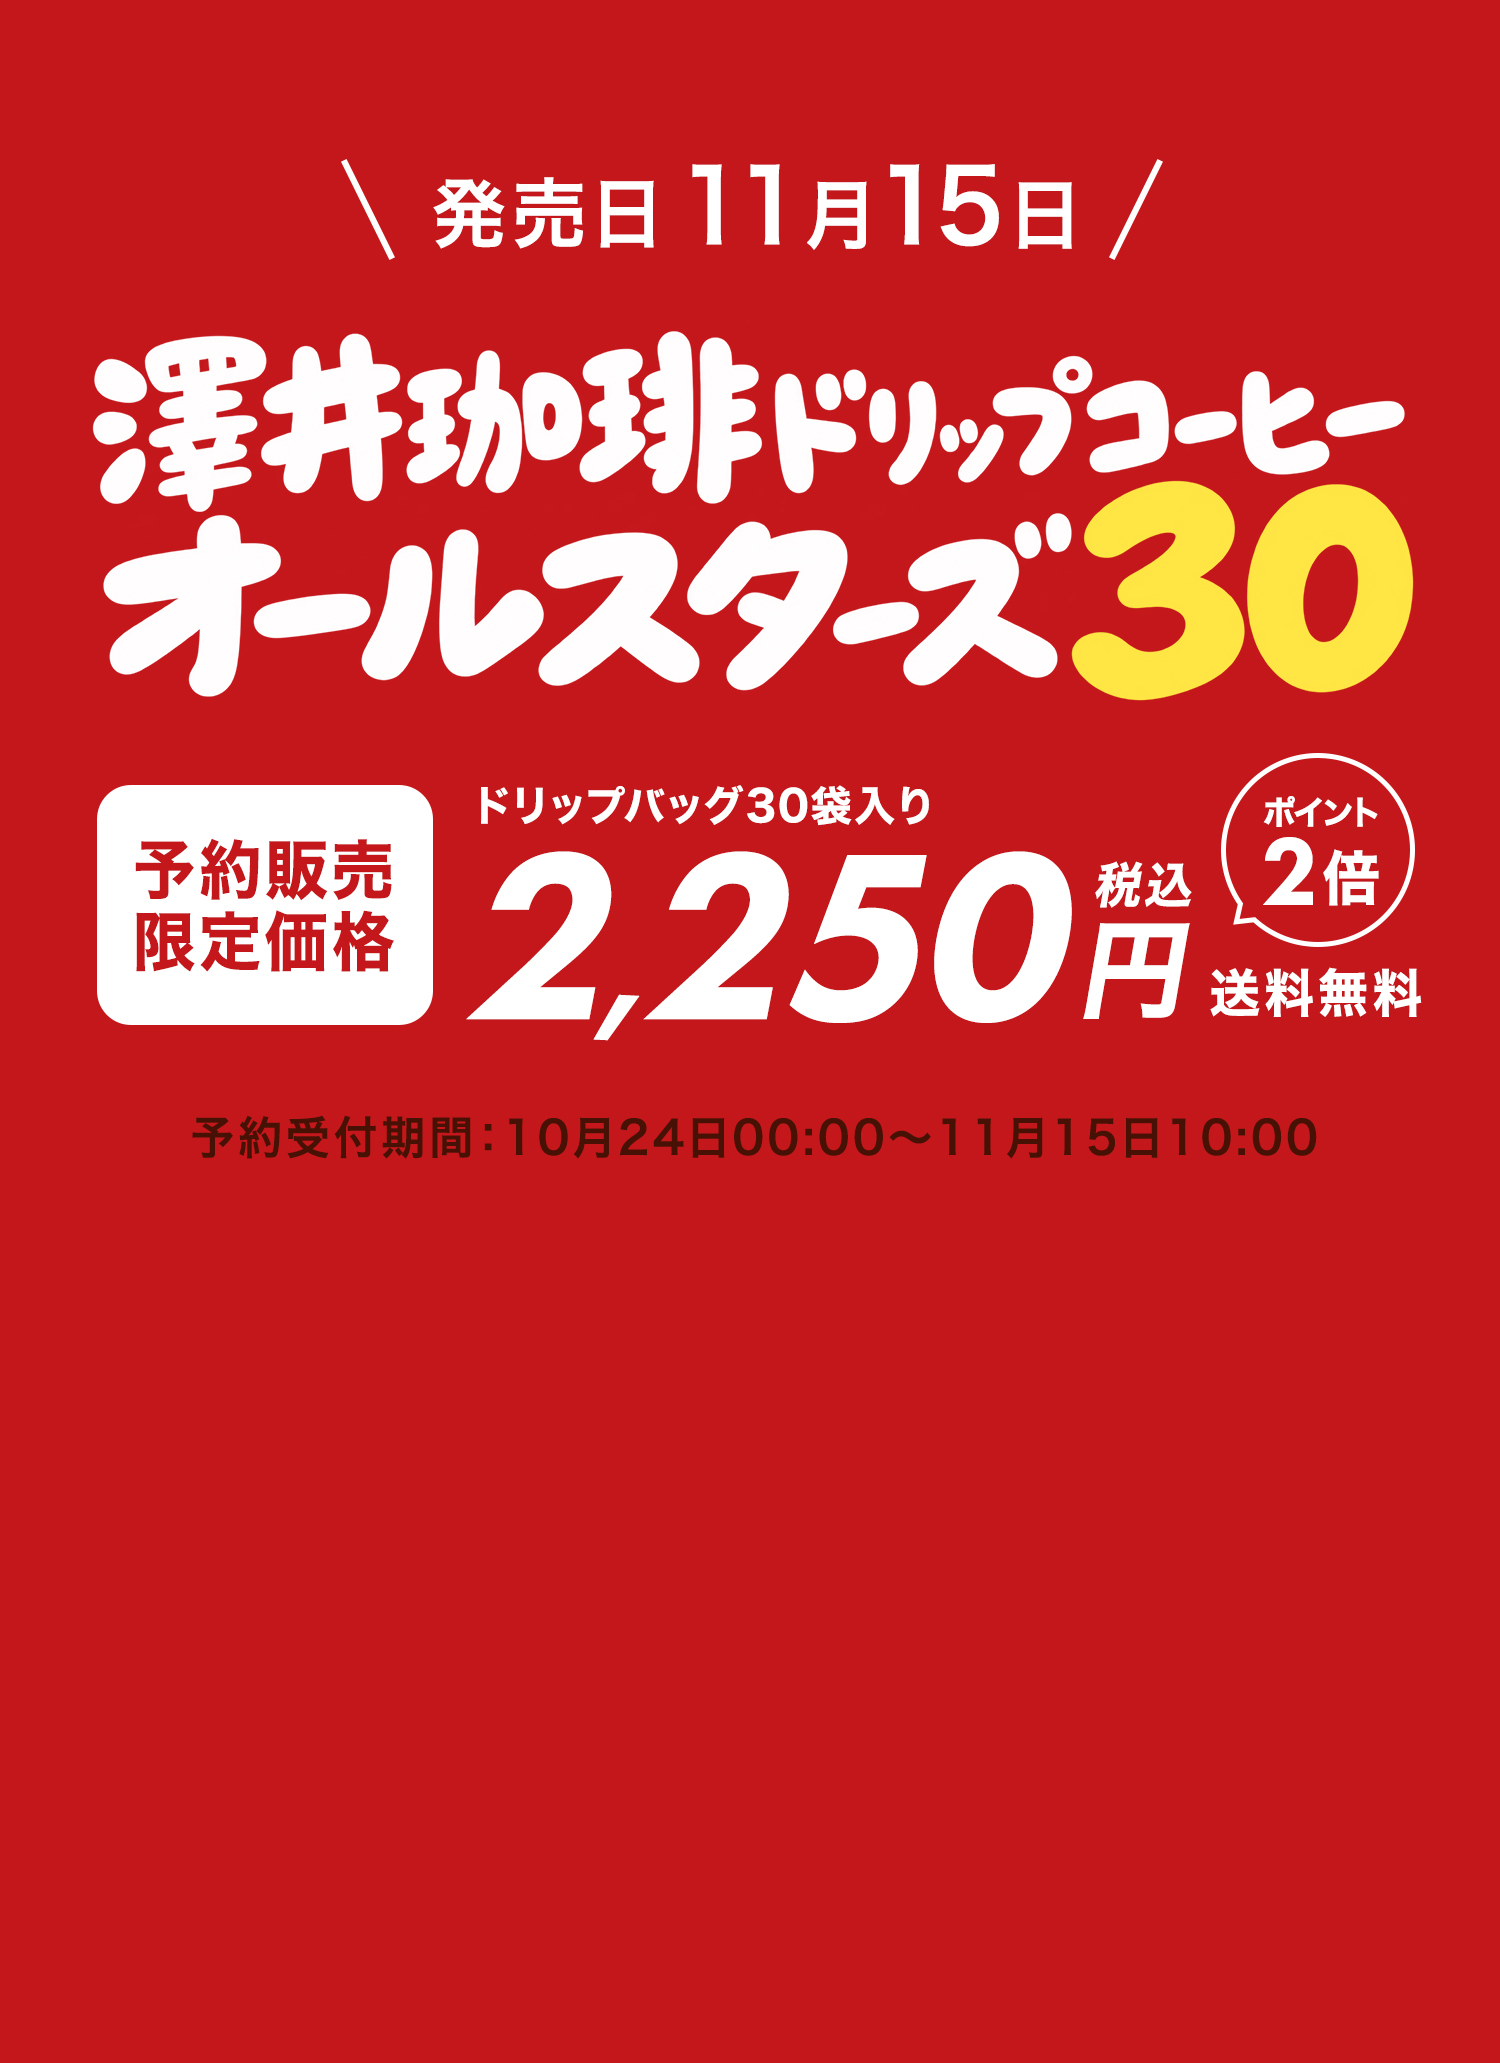
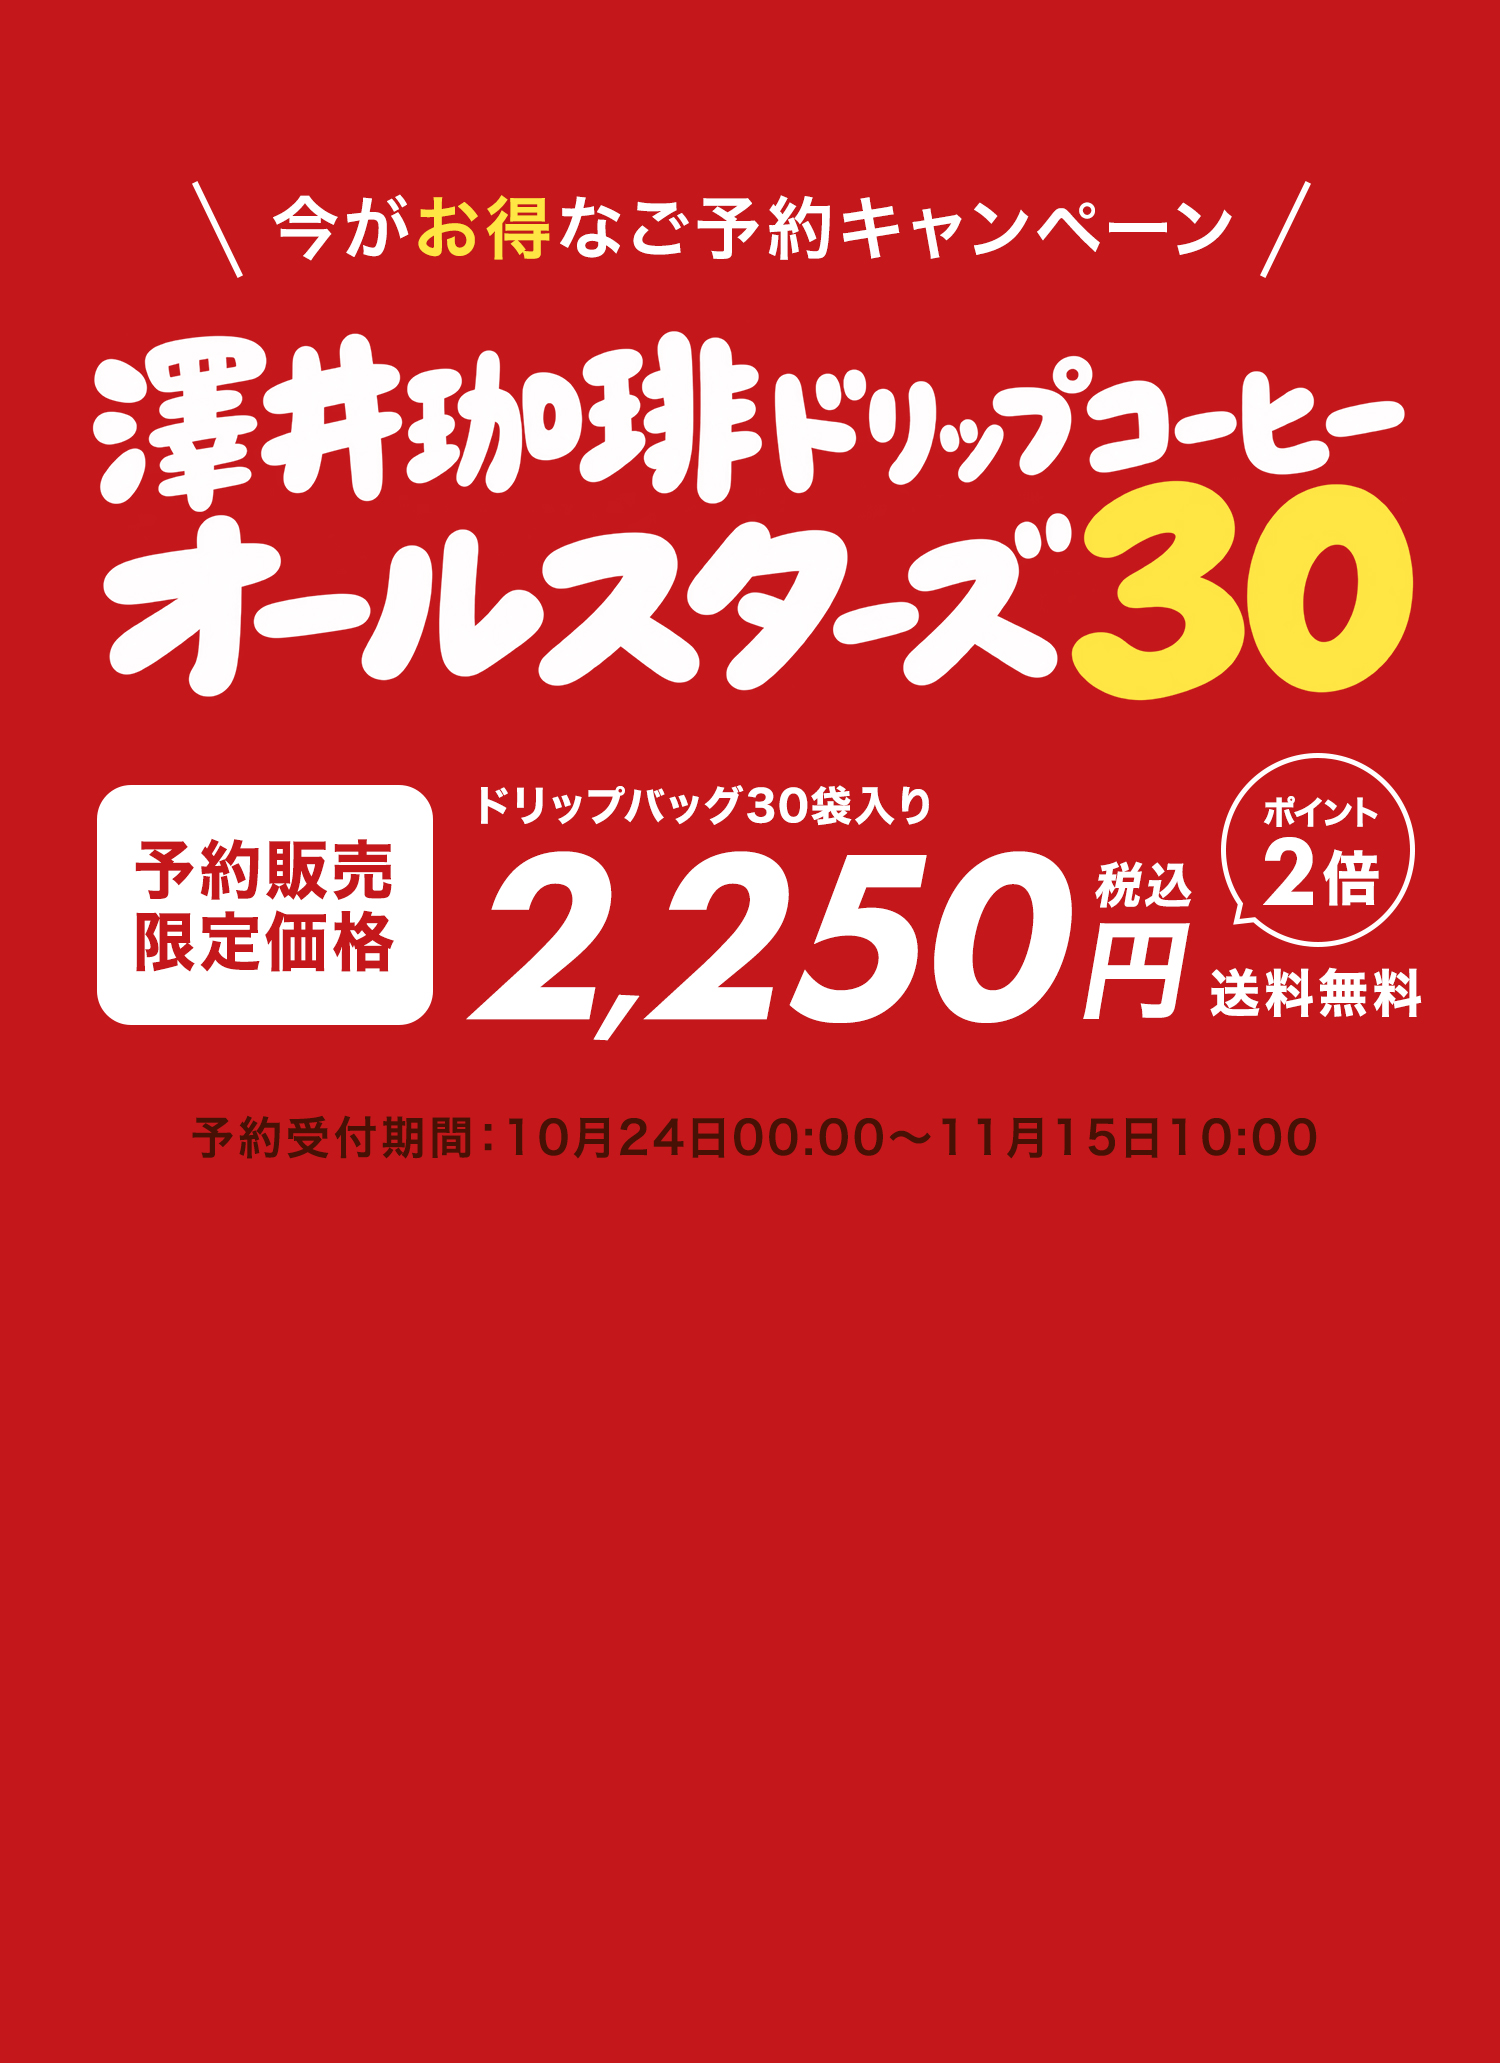
FV画像（PC・スマホ）を差し替え、ヘッダーの文言を「発売日11月15日『オールスターズ30』ご予約キャンペーン」に

Changed region(s): [[0.184, 0.062, 0.828, 0.1241], [0.1227, 0.0931, 0.1533, 0.1241]]

diff --git a/index.html b/index.html
@@ -67,8 +67,9 @@ button{font:inherit;cursor:pointer;border:0;background:none;color:inherit}
 html{scroll-padding-top:72px}
 @media (max-width:1100px){.hd-nav ul{gap:14px}.hd-nav a{font-size:12px}}
 @media (min-width:769px){.hd-nav{display:none}}  /* PCのメニューはFVの下（.pc-nav） */
-.hd-ttl{margin:0 auto 0 22px;color:var(--white);font-weight:800;font-size:15px;letter-spacing:.06em;padding-left:22px;border-left:1px solid rgba(255,255,255,.45);line-height:1.4}
-@media (max-width:768px){.hd-ttl{display:none}}
+.hd-ttl{white-space:nowrap;margin:0 auto 0 22px;color:var(--white);font-weight:800;font-size:15px;letter-spacing:.06em;padding-left:22px;border-left:1px solid rgba(255,255,255,.45);line-height:1.4}
+@media (max-width:1100px){.hd-ttl{font-size:13px;margin-left:16px;padding-left:16px}}
+@media (max-width:960px){.hd-ttl{display:none}}
 /* PC：FVの下のメニュー */
 .pc-nav{background:#fff;border-bottom:1px solid var(--cream-dk);position:relative;z-index:5}
 .pc-nav ul{display:flex;justify-content:center;flex-wrap:wrap;list-style:none;max-width:var(--cw);margin:0 auto;padding:0 24px}
@@ -550,7 +551,7 @@ html{scroll-padding-top:72px}
 
 <header class="hd" id="hd">
   <a class="hd-logo" href="https://www.rakuten.co.jp/sawaicoffee-tea/" target="_blank" rel="noopener"><img src="img/logo.png" width="960" height="160" alt="SAWAI COFFEE 澤井珈琲"></a>
-  <p class="hd-ttl">ドリップバッグ30種セットご予約キャンペーン</p>
+  <p class="hd-ttl">発売日11月15日『オールスターズ30』ご予約キャンペーン</p>
   <nav class="hd-nav" id="hdNav" aria-label="メニュー">
     <ul>
       <li><a href="#story">30種の飲み比べ</a></li>
@@ -573,7 +574,7 @@ html{scroll-padding-top:72px}
 <h1 class="vh" id="top">澤井珈琲ドリップコーヒー オールスターズ30｜予約販売限定価格2,250円（税込）送料無料</h1>
 <section class="fv-img">
   <div class="fv-img-in">
-    <img src="img/fv-pc.jpg" width="2500" height="1200" alt="澤井珈琲ドリップコーヒー オールスターズ30　発売日11月15日　ドリップバッグ30袋入り　予約販売限定価格 2,250円（税込）送料無料　ポイント2倍　予約受付期間：10月24日00:00〜11月15日10:00">
+    <img src="img/fv-pc.jpg" width="2500" height="1200" alt="今がお得なご予約キャンペーン　澤井珈琲ドリップコーヒー オールスターズ30　ドリップバッグ30袋入り　予約販売限定価格 2,250円（税込）送料無料　ポイント2倍　予約受付期間：10月24日00:00〜11月15日10:00">
     <!-- 左の2列：ドリップバッグが縦に流れる（中身はJSで30種を入れる） -->
     <div class="fv-col c1" aria-hidden="true"><div class="fv-track" id="fvTrack1"></div></div>
     <div class="fv-col c2" aria-hidden="true"><div class="fv-track" id="fvTrack2"></div></div>
@@ -596,7 +597,7 @@ html{scroll-padding-top:72px}
 <!-- ▼ スマホのFV（画像＋横に流れる2列＋コーヒーカップ）。PCは上の画像FV -->
 <section class="fv-sp">
   <div class="fv-sp-in">
-    <img src="img/fv-sp.jpg" width="1500" height="2063" alt="澤井珈琲ドリップコーヒー オールスターズ30　発売日11月15日　ドリップバッグ30袋入り　予約販売限定価格 2,250円（税込）送料無料　ポイント2倍　予約受付期間：10月24日00:00〜11月15日10:00">
+    <img src="img/fv-sp.jpg" width="1500" height="2063" alt="今がお得なご予約キャンペーン　澤井珈琲ドリップコーヒー オールスターズ30　ドリップバッグ30袋入り　予約販売限定価格 2,250円（税込）送料無料　ポイント2倍　予約受付期間：10月24日00:00〜11月15日10:00">
     <!-- 画像1500×2063のうち y=1252〜1593 と y=1622〜1963 の位置に、袋が横に流れる2列 -->
     <div class="fv-row r1" aria-hidden="true"><div class="fv-row-track" id="spTrack1"></div></div>
     <div class="fv-row r2" aria-hidden="true"><div class="fv-row-track" id="spTrack2"></div></div>

diff --git a/README.md b/README.md
@@ -18,7 +18,7 @@
 ## ヘッダー
 - ロゴ：`img/logo.png`（ヘッダー・フッターとも澤井珈琲トップ https://www.rakuten.co.jp/sawaicoffee-tea/ へ別タブでリンク）（デスクトップ「澤井珈琲30」フォルダの logo.png。960×160・赤地に白文字。元画像の一番上の1行が薄いピンクだったため、ページ用のコピーだけ赤で塗りつぶし済み）
 - 背景はロゴの赤 #d0121c に合わせて常に赤。ロゴの高さはPC 36px／スマホ 26px
-- メニュー：30種の飲み比べ／予約特典について／30種ラインナップ／本日のおすすめ／味わいタイプ／楽しみ方／商品概要。PCはFVのすぐ下に横並びのメニュー（ヘッダーにはロゴの横に「ドリップバッグ30種セットご予約キャンペーン」）、スマホは右上のハンバーガーで赤い全面メニューが開く（下に「ご予約はこちら」ボタン。リンクを押すかEscで閉じる）
+- メニュー：30種の飲み比べ／予約特典について／30種ラインナップ／本日のおすすめ／味わいタイプ／楽しみ方／商品概要。PCはFVのすぐ下に横並びのメニュー（ヘッダーにはロゴの横に「発売日11月15日『オールスターズ30』ご予約キャンペーン」）、スマホは右上のハンバーガーで赤い全面メニューが開く（下に「ご予約はこちら」ボタン。リンクを押すかEscで閉じる）
 - スマホはFVのすぐ下に、FVと同じ赤（#c4171b）の「ご予約はこちら」ボタン。画面下の黒い帯も「ご予約はこちら」
 
 ## 構成
